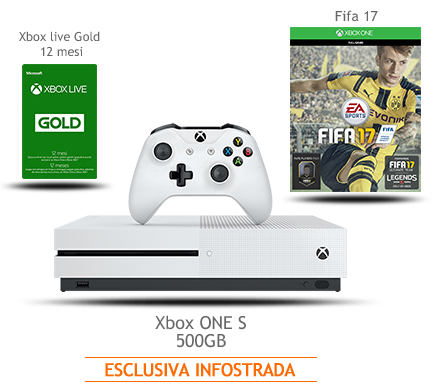
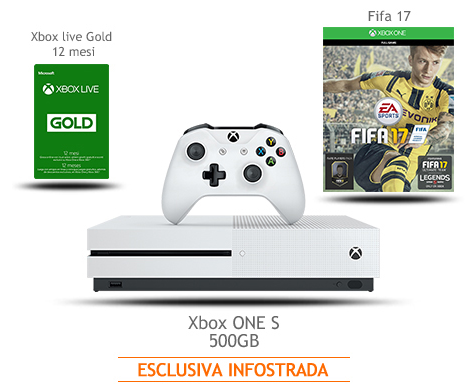
LP Xbox One S updare

diff --git a/LandingRestyle/html/partials/offer_details/offer_details_xboxones.html b/LandingRestyle/html/partials/offer_details/offer_details_xboxones.html
@@ -7,8 +7,49 @@
         <img class="display_forced_block margin_bottom_30 max_width_100" src="../img/xboxones_console.png" alt="">
     </div>
     <div class="box_width_50 display_inline vertical_top">
-        <div class="font_size_30 text_uppercase text_left text_color_blue_99 font_bold margin_bottom_10">Serie tv</div>
-        <div class="font_size_22 text_right margin_bottom_10 padding_left_50 padding_right_50 margin_bottom_50 extended_line_height padding_left_m_15 padding_right_m_15">Le Serie TV del momento in contemporanea con gli Stati Uniti e interi cofanetti On Demand anche in lingua originale. In più per te 4 canali dedicati: Sky Atlantic, Fox, Fox Life e Fox Crime.</div>
+        <div class="font_size_30 text_uppercase text_centered text_color_blue_99 font_bold margin_bottom_10">Più elegante. Più sottile. <br/>
+Più nitida.</div>
+        <div class="font_size_20 text_centered margin_bottom_10 padding_left_50 padding_right_50 margin_bottom_50 extended_line_height padding_left_m_15 padding_right_m_15">Le Serie TV del momento in contemporanea con gli Stati Uniti e interi cofanetti On Demand anche in lingua originale. In più per te 4 canali dedicati: Sky Atlantic, Fox, Fox Life e Fox Crime.</div>
+    </div>
+</div>
+
+<div class="container margin_bottom_50 border_bottom_solid margin_top_40">
+    <div class="box_width_50 display_inline vertical_top">
+        <img class="display_forced_block margin_bottom_30 max_width_100" src="../img/xboxones_fifa.png" alt="">
+    </div>
+    <div class="box_width_50 display_inline vertical_top">
+        <div class="font_size_30 text_uppercase text_centered text_color_blue_99 font_bold margin_bottom_10">Fifa 17</div>
+        <div class="font_size_20 text_centered margin_bottom_10 padding_left_50 padding_right_50 margin_bottom_50 extended_line_height padding_left_m_15 padding_right_m_15">FIFA 17 trasforma il tuo modo di giocare, competere e vivere le emozioni del gioco. Con FIFA 17 vivrai un'esperienza realistica grazie al nuovo motore di gioco, introducendo calciatori sempre più emozionanti e reali.</div>
+    </div>
+</div>
+
+<div class="container margin_bottom_50 border_bottom_solid margin_top_40">
+    <div class="box_width_50 display_inline vertical_top">
+        <img class="display_forced_block margin_bottom_30 max_width_100" src="../img/xboxones_live.png" alt="">
+    </div>
+    <div class="box_width_50 display_inline vertical_top">
+        <div class="font_size_30 text_uppercase text_centered text_color_blue_99 font_bold margin_bottom_10">Xbox Live Gold</div>
+        <div class="font_size_20 text_centered margin_bottom_10 padding_left_50 padding_right_50 margin_bottom_50 extended_line_height padding_left_m_15 padding_right_m_15">Entra nella community di gioco più grande al mondo. Sfida i tuoi amici ai giochi multiplayer più avanzati, ottieni giochi gratuiti ogni mese, ricevi sconti esclusivi fino al 75% sui giochi disponibili nell'Xbox Store e molto altro.</div>
+    </div>
+</div>
+
+<div class="container margin_bottom_50 border_bottom_solid margin_top_40">
+    <div class="box_width_50 display_inline vertical_top">
+        <img class="display_forced_block margin_bottom_30 max_width_100" src="../img/xboxones_ea.png" alt="">
+    </div>
+    <div class="box_width_50 display_inline vertical_top">
+        <div class="font_size_30 text_uppercase text_centered text_color_blue_99 font_bold margin_bottom_10">Ea Access</div>
+        <div class="font_size_20 text_centered margin_bottom_10 padding_left_50 padding_right_50 margin_bottom_50 extended_line_height padding_left_m_15 padding_right_m_15">Il divertimento sarà senza limiti. Scopri i migliori giochi per Xbox One S di EA, prova i nuovi titoli prima della loro uscita e ottieni uno sconto del 10% sugli acquisti digitali EA per Xbox One S.</div>
+    </div>
+</div>
+
+<div class="container margin_bottom_30 margin_top_40">
+    <div class="box_width_50 display_inline vertical_top">
+        <img class="display_forced_block margin_bottom_30 max_width_100" src="../img/xboxones_game.png" alt="">
+    </div>
+    <div class="box_width_50 display_inline vertical_top">
+        <div class="font_size_30 text_uppercase text_centered text_color_blue_99 font_bold margin_bottom_10">Tecnologia avanzata<br /> in continuo miglioramento</div>
+        <div class="font_size_20 text_centered margin_bottom_10 padding_left_50 padding_right_50 margin_bottom_50 extended_line_height padding_left_m_15 padding_right_m_15">Con Xbox One S puoi sospendere il gioco e riprendere dal punto esatto in cui lo avevi interrotto, interagire con i tuoi amici e giocare tra console Xbox One e PC con Windows 10. Divertiti con i titoli della tua Xbox 360 e verifica <span class="text_color_orange">la retro compatibilità</span>.</div>
     </div>
 </div>
 

diff --git a/LandingRestyle/html/partials/hero/hero_xboxones.html b/LandingRestyle/html/partials/hero/hero_xboxones.html
@@ -11,19 +11,19 @@
             </div>
             <div class="only_mobile landing__hero--ribbon ribbon_fluid ribbon_max_250 ribbon_static box_width_30 colored_bg_ribbon--infostrada margin_bottom_10">
                 <div class="price padding_top_10 text_centered padding_left_30 padding_right_30 small_price">a soli 3<span class="currency">€</span></div>
-                <div class="recurrency padding_bottom_10">ogni 4 settimane</div>
+                <div class="recurrency padding_bottom_10">Ogni 4 settimane</div>
             </div>
             <div class="only_mobile box_offer--price margin_left_20 font_size_20 font_light">Anticipo <span class="font_size_30 font_bold">99,90</span><span class="font_size_24 font_bold">€</span></div>
-            <div class="landing__hero__imageContainer margin_top_50 full_image mobile_centered">
+            <div class="landing__hero__imageContainer margin_top_50 margin_right_40 full_image mobile_centered">
                 <img src="../img/hero_xboxones.png" alt="">
             </div>
             <div class="only_desktop landing__hero--ribbon ribbon_fluid ribbon_max_250 ribbon_static box_width_30 colored_bg_ribbon--infostrada margin_top_20 margin_bottom_10">
                 <div class="price padding_top_10 text_centered padding_left_30 padding_right_30 small_price">a soli 3<span class="currency">€</span></div>
-                <div class="recurrency padding_bottom_10">ogni 4 settimane</div>
+                <div class="recurrency padding_bottom_10">Ogni 4 settimane</div>
             </div>
             <div class="only_desktop box_offer--price margin_bottom_20 margin_left_40 font_size_20 font_light">Anticipo <span class="font_size_30 font_bold">99,90</span><span class="font_size_24 font_bold">€</span></div>
             <div class="box_width_50 display_inline vertical_top fixed_container">
-                <a href="javascript:void(0);" class="button_shoulder_login button button__hovering button--standard text_align--center">CERCA IL NEGOZIO PIù VICINO</a>
+                <a href="javascript:void(0);" class="button_shoulder_login button button__hovering button--standard text_align--center">TROVA IL NEGOZIO PIù VICINO</a>
             </div>
             <div class="box_width_50 display_inline vertical_top fixed_container"><a href="javascript:void(0);" class="button_shoulder_login button button__hovering button--standard text_align--center margin_bottom_m_50">ATTIVA INFOSTRADA DA WEB</a></div>
         </div>
